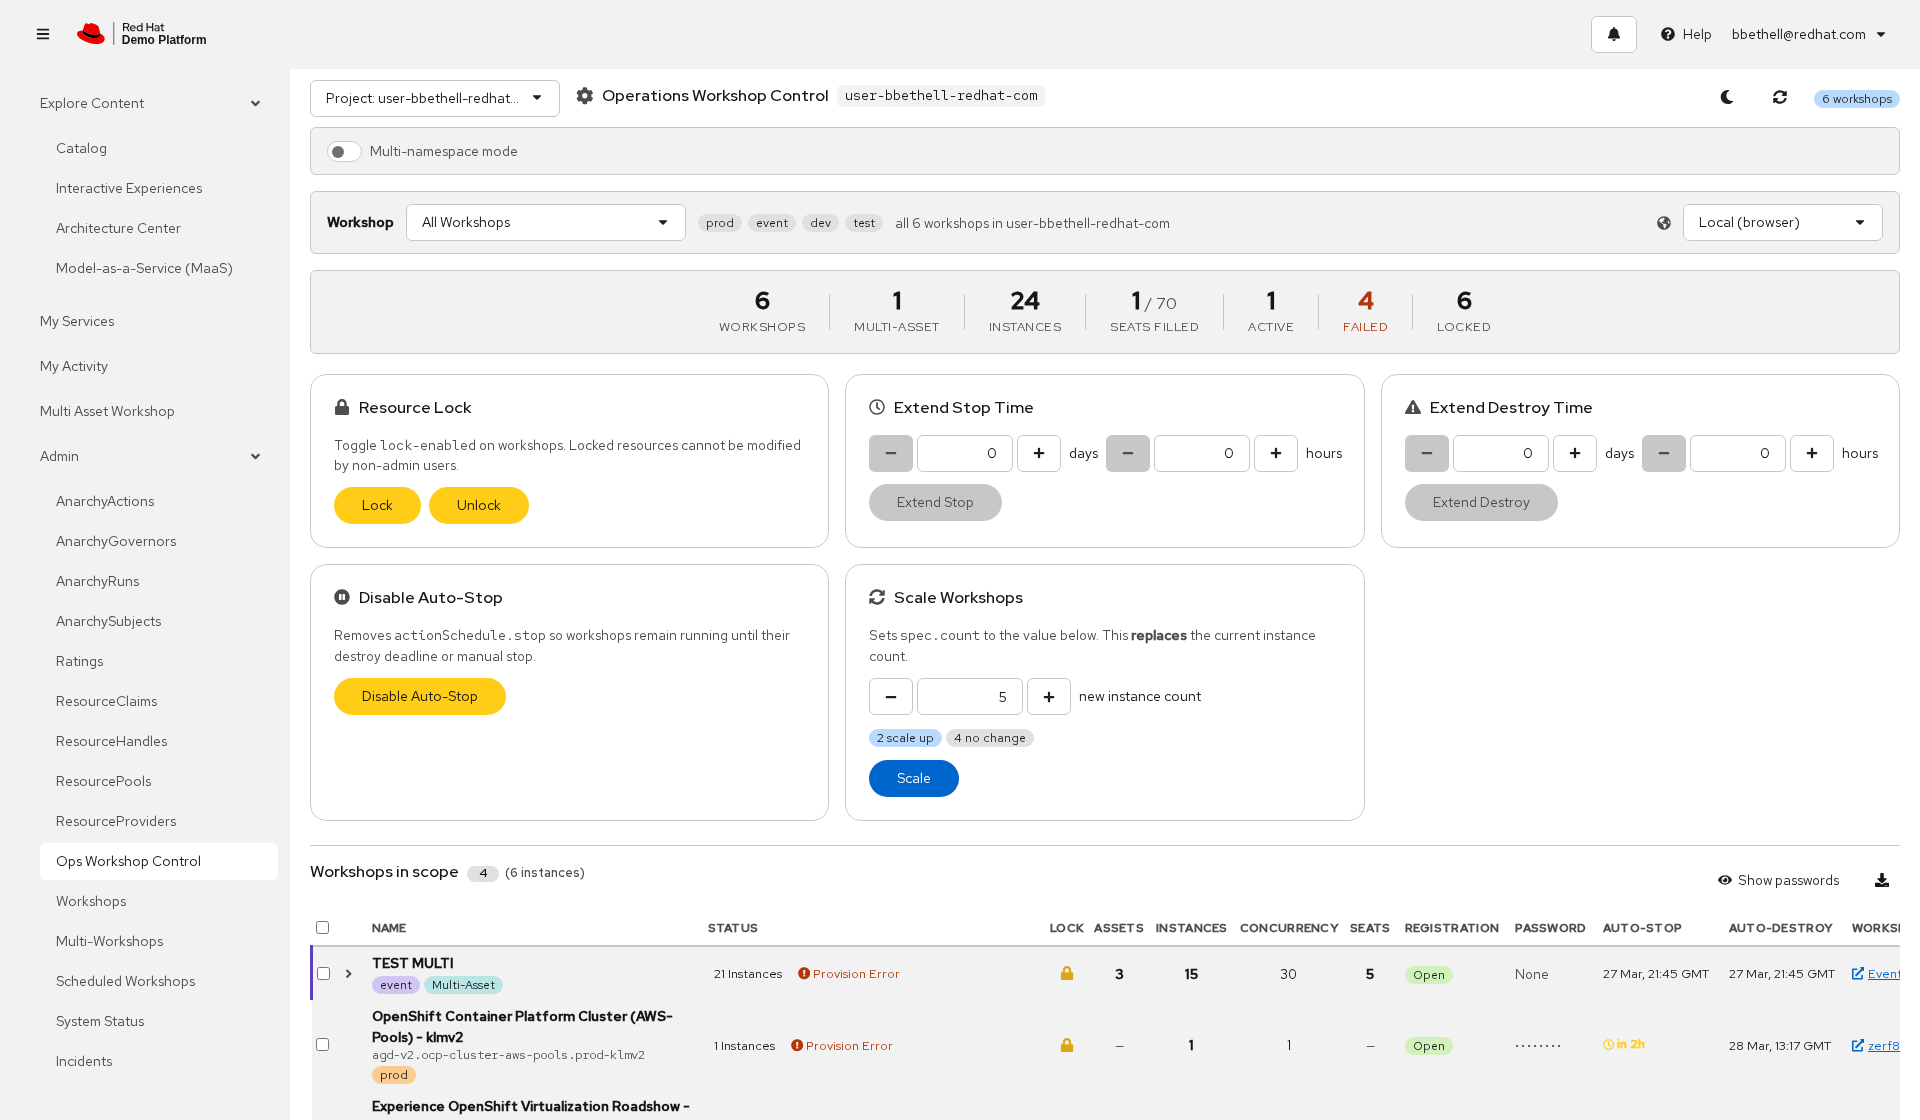
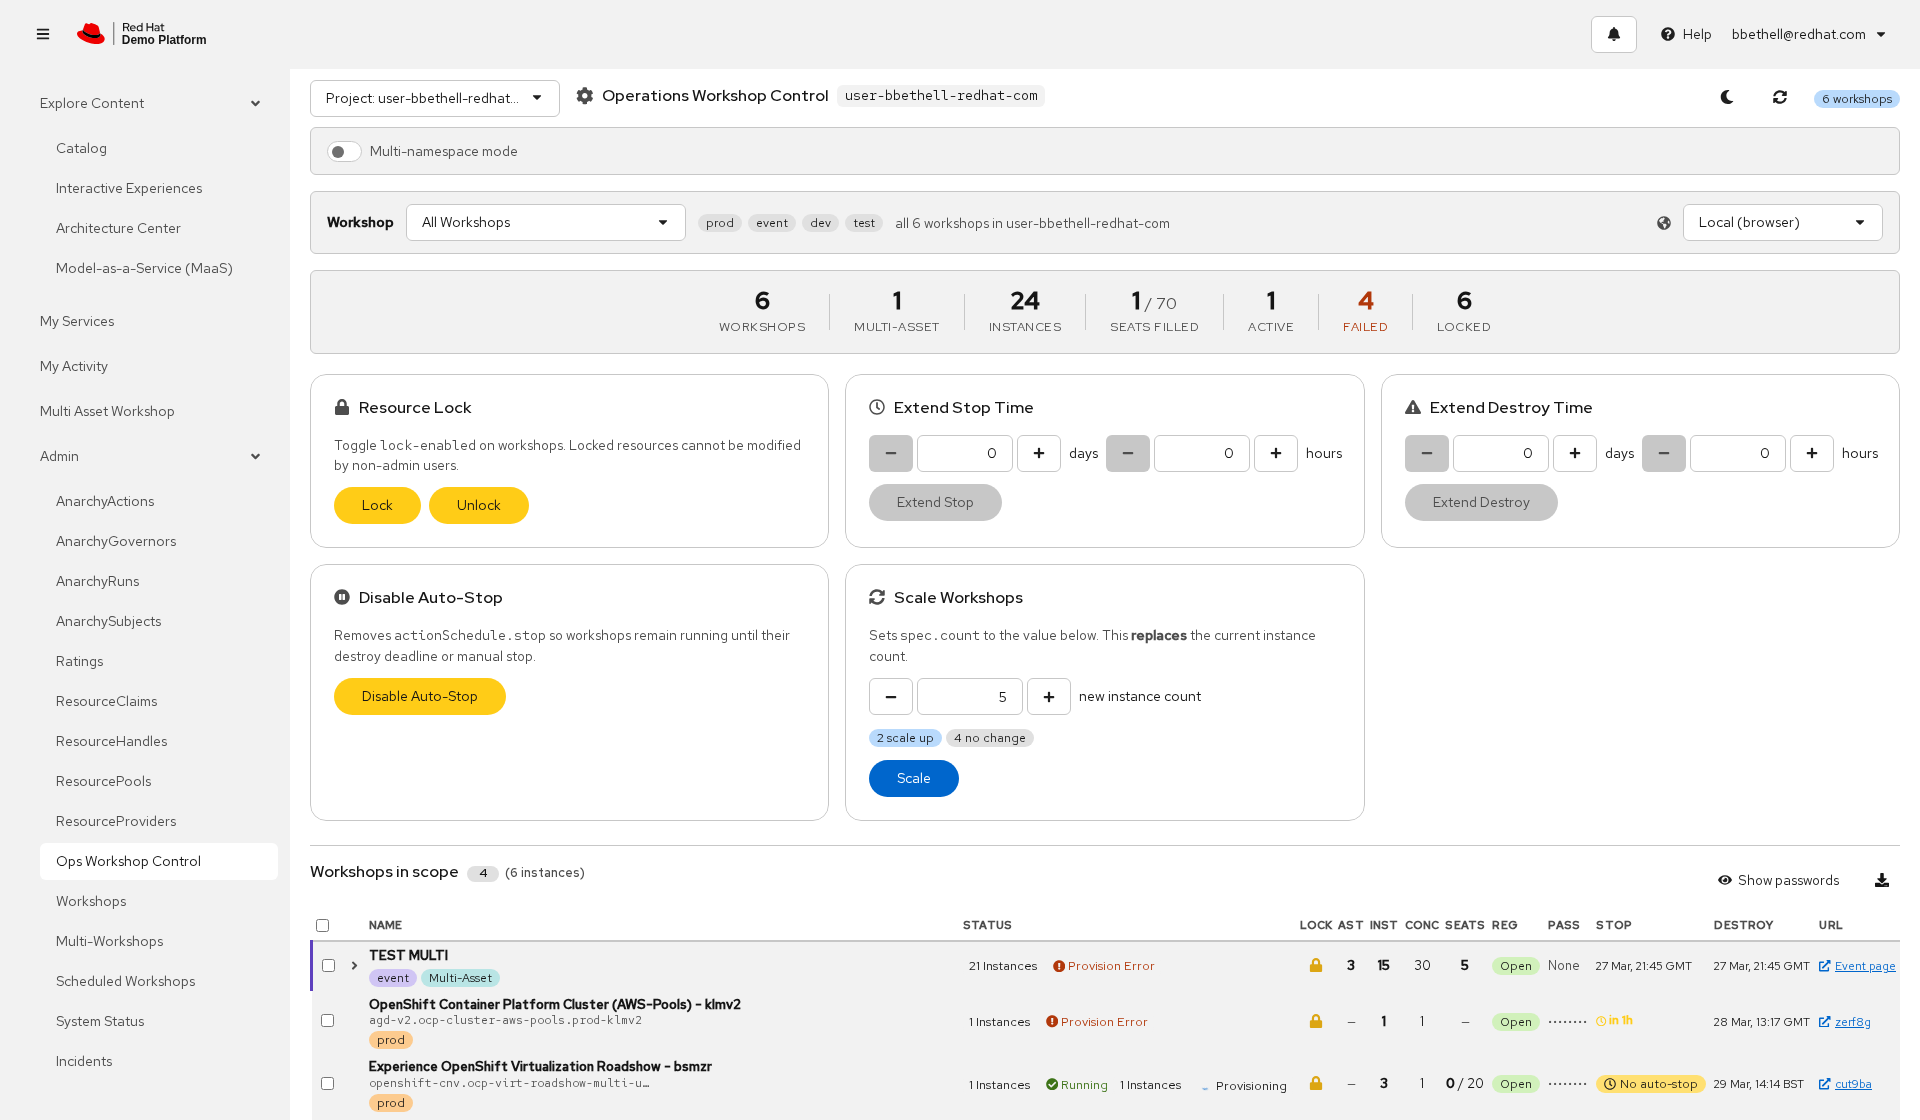
style(ops): maximize column compactness with abbreviated headers
- Headers abbreviated: Lock→Lock, Assets→Ast, Instances→Inst,
  Concurrency→Conc, Registration→Reg, Password→Pass, Auto-Stop→Stop,
  Auto-Destroy→Destroy, Workshop URL→URL — with tooltips for full names
- Reduced all padding (th: 6px 4px, td: 4px 4px)
- All columns except Name set to width: 1% to shrink to content
- Font sizes reduced across dates (0.72rem), passwords, URLs, meta text
- Checkbox column tightened to 28px
- Name column gets remaining space with min-width: 140px

Made-with: Cursor

diff --git a/catalog/ui/src/app/Admin/ops.css b/catalog/ui/src/app/Admin/ops.css
@@ -278,28 +278,35 @@
 }
 
 /* Column width hints */
-.ops-table-wrap th:first-child { width: 32px; padding: 4px; }  /* checkbox */
-.ops-table-wrap th:nth-child(2) { width: 24px; }  /* expand */
-.ops-table-wrap th:nth-child(3) { min-width: 160px; }  /* Name */
-.ops-table-wrap th:nth-child(4) { min-width: 80px; }   /* Status */
+.ops-table-wrap th:first-child { width: 28px; padding: 2px 4px; }  /* checkbox */
+.ops-table-wrap th:nth-child(2) { width: 20px; }  /* expand */
+.ops-table-wrap th:nth-child(3) { min-width: 140px; }  /* Name — gets the remaining space */
+
+/* All other columns shrink to content */
+.ops-table-wrap th:nth-child(n+4) {
+  width: 1%;
+  white-space: nowrap;
+}
 
 .ops-table-wrap thead th {
-  padding: 8px 8px;
-  font-size: 0.75rem;
+  padding: 6px 4px;
+  font-size: 0.7rem;
   text-transform: uppercase;
-  letter-spacing: 0.3px;
+  letter-spacing: 0.2px;
   color: var(--pf-t--global--text--color--subtle);
   border-bottom: 2px solid var(--pf-t--global--border--color--default);
   white-space: nowrap;
 }
 
 .ops-table-wrap td {
-  padding: 6px 8px;
+  padding: 4px 4px;
   vertical-align: middle;
-  font-size: 0.85rem;
+  font-size: 0.82rem;
 }
 
-/* Compact numeric columns (shifted +1 for checkbox col) */
+/* Compact numeric columns: Lock, Assets, Instances, Concurrency, Seats */
+.ops-table-wrap th:nth-child(5),
+.ops-table-wrap td:nth-child(5),
 .ops-table-wrap th:nth-child(6),
 .ops-table-wrap td:nth-child(6),
 .ops-table-wrap th:nth-child(7),
@@ -310,27 +317,17 @@
 .ops-table-wrap td:nth-child(9) {
   text-align: center;
   white-space: nowrap;
-  width: 1%;
-  padding-left: 6px;
-  padding-right: 6px;
-}
-
-/* Lock column compact */
-.ops-table-wrap th:nth-child(5),
-.ops-table-wrap td:nth-child(5) {
-  text-align: center;
-  width: 1%;
-  padding-left: 4px;
-  padding-right: 4px;
+  padding-left: 3px;
+  padding-right: 3px;
 }
 
 .ops-ws-meta {
   display: block;
-  font-size: 0.78rem;
+  font-size: 0.72rem;
   color: var(--pf-t--global--text--color--subtle);
   font-family: var(--pf-t--global--font--family--mono);
-  line-height: 1.3;
-  max-width: 320px;
+  line-height: 1.2;
+  max-width: 280px;
   overflow: hidden;
   text-overflow: ellipsis;
   white-space: nowrap;
@@ -350,21 +347,21 @@
 }
 
 .ops-password {
-  font-size: 0.78rem;
+  font-size: 0.72rem;
   word-break: break-all;
   background: var(--pf-t--global--background--color--secondary--default);
-  padding: 1px 4px;
+  padding: 1px 3px;
   border-radius: 3px;
 }
 
 .ops-password-hidden {
   color: var(--pf-t--global--text--color--subtle);
-  letter-spacing: 2px;
-  font-size: 0.78rem;
+  letter-spacing: 1px;
+  font-size: 0.72rem;
 }
 
 .ops-ws-link {
-  font-size: 0.78rem;
+  font-size: 0.72rem;
   white-space: nowrap;
 }
 
@@ -431,10 +428,10 @@ a.ops-ws-meta:hover {
 .ops-date-critical {
   display: inline-flex;
   align-items: center;
-  gap: 3px;
+  gap: 2px;
   color: var(--pf-t--global--color--status--danger--default);
   font-weight: 700;
-  font-size: 0.78rem;
+  font-size: 0.72rem;
   animation: ops-pulse 2s ease-in-out infinite;
   white-space: nowrap;
 }
@@ -442,15 +439,15 @@ a.ops-ws-meta:hover {
 .ops-date-warning {
   display: inline-flex;
   align-items: center;
-  gap: 3px;
+  gap: 2px;
   color: var(--pf-t--global--color--status--warning--default);
   font-weight: 600;
-  font-size: 0.78rem;
+  font-size: 0.72rem;
   white-space: nowrap;
 }
 
 .ops-date-ok {
-  font-size: 0.78rem;
+  font-size: 0.72rem;
   color: var(--pf-t--global--text--color--regular);
   white-space: nowrap;
 }
@@ -511,8 +508,8 @@ a.ops-ws-meta:hover {
 
 /* Checkbox column in table rows */
 .ops-table-wrap td:first-child {
-  width: 32px;
-  padding: 4px;
+  width: 28px;
+  padding: 2px 4px;
   text-align: center;
 }
 

diff --git a/catalog/ui/src/app/Admin/Ops.tsx b/catalog/ui/src/app/Admin/Ops.tsx
@@ -1348,16 +1348,16 @@ const Ops: React.FC = () => {
                       <th></th>
                       <th>Name</th>
                       <th>Status</th>
-                      <th>Lock</th>
-                      <th>Assets</th>
-                      <th>Instances</th>
-                      <th>Concurrency</th>
+                      <th><Tooltip content="Lock status"><span>Lock</span></Tooltip></th>
+                      <th><Tooltip content="Multi-asset count"><span>Ast</span></Tooltip></th>
+                      <th><Tooltip content="Instance count"><span>Inst</span></Tooltip></th>
+                      <th><Tooltip content="Concurrency"><span>Conc</span></Tooltip></th>
                       <th>Seats</th>
-                      <th>Registration</th>
-                      <th>Password</th>
-                      <th>Auto-Stop</th>
-                      <th>Auto-Destroy</th>
-                      <th>Workshop URL</th>
+                      <th><Tooltip content="Registration type"><span>Reg</span></Tooltip></th>
+                      <th>Pass</th>
+                      <th>Stop</th>
+                      <th>Destroy</th>
+                      <th>URL</th>
                     </tr>
                   </thead>
                   <tbody>
